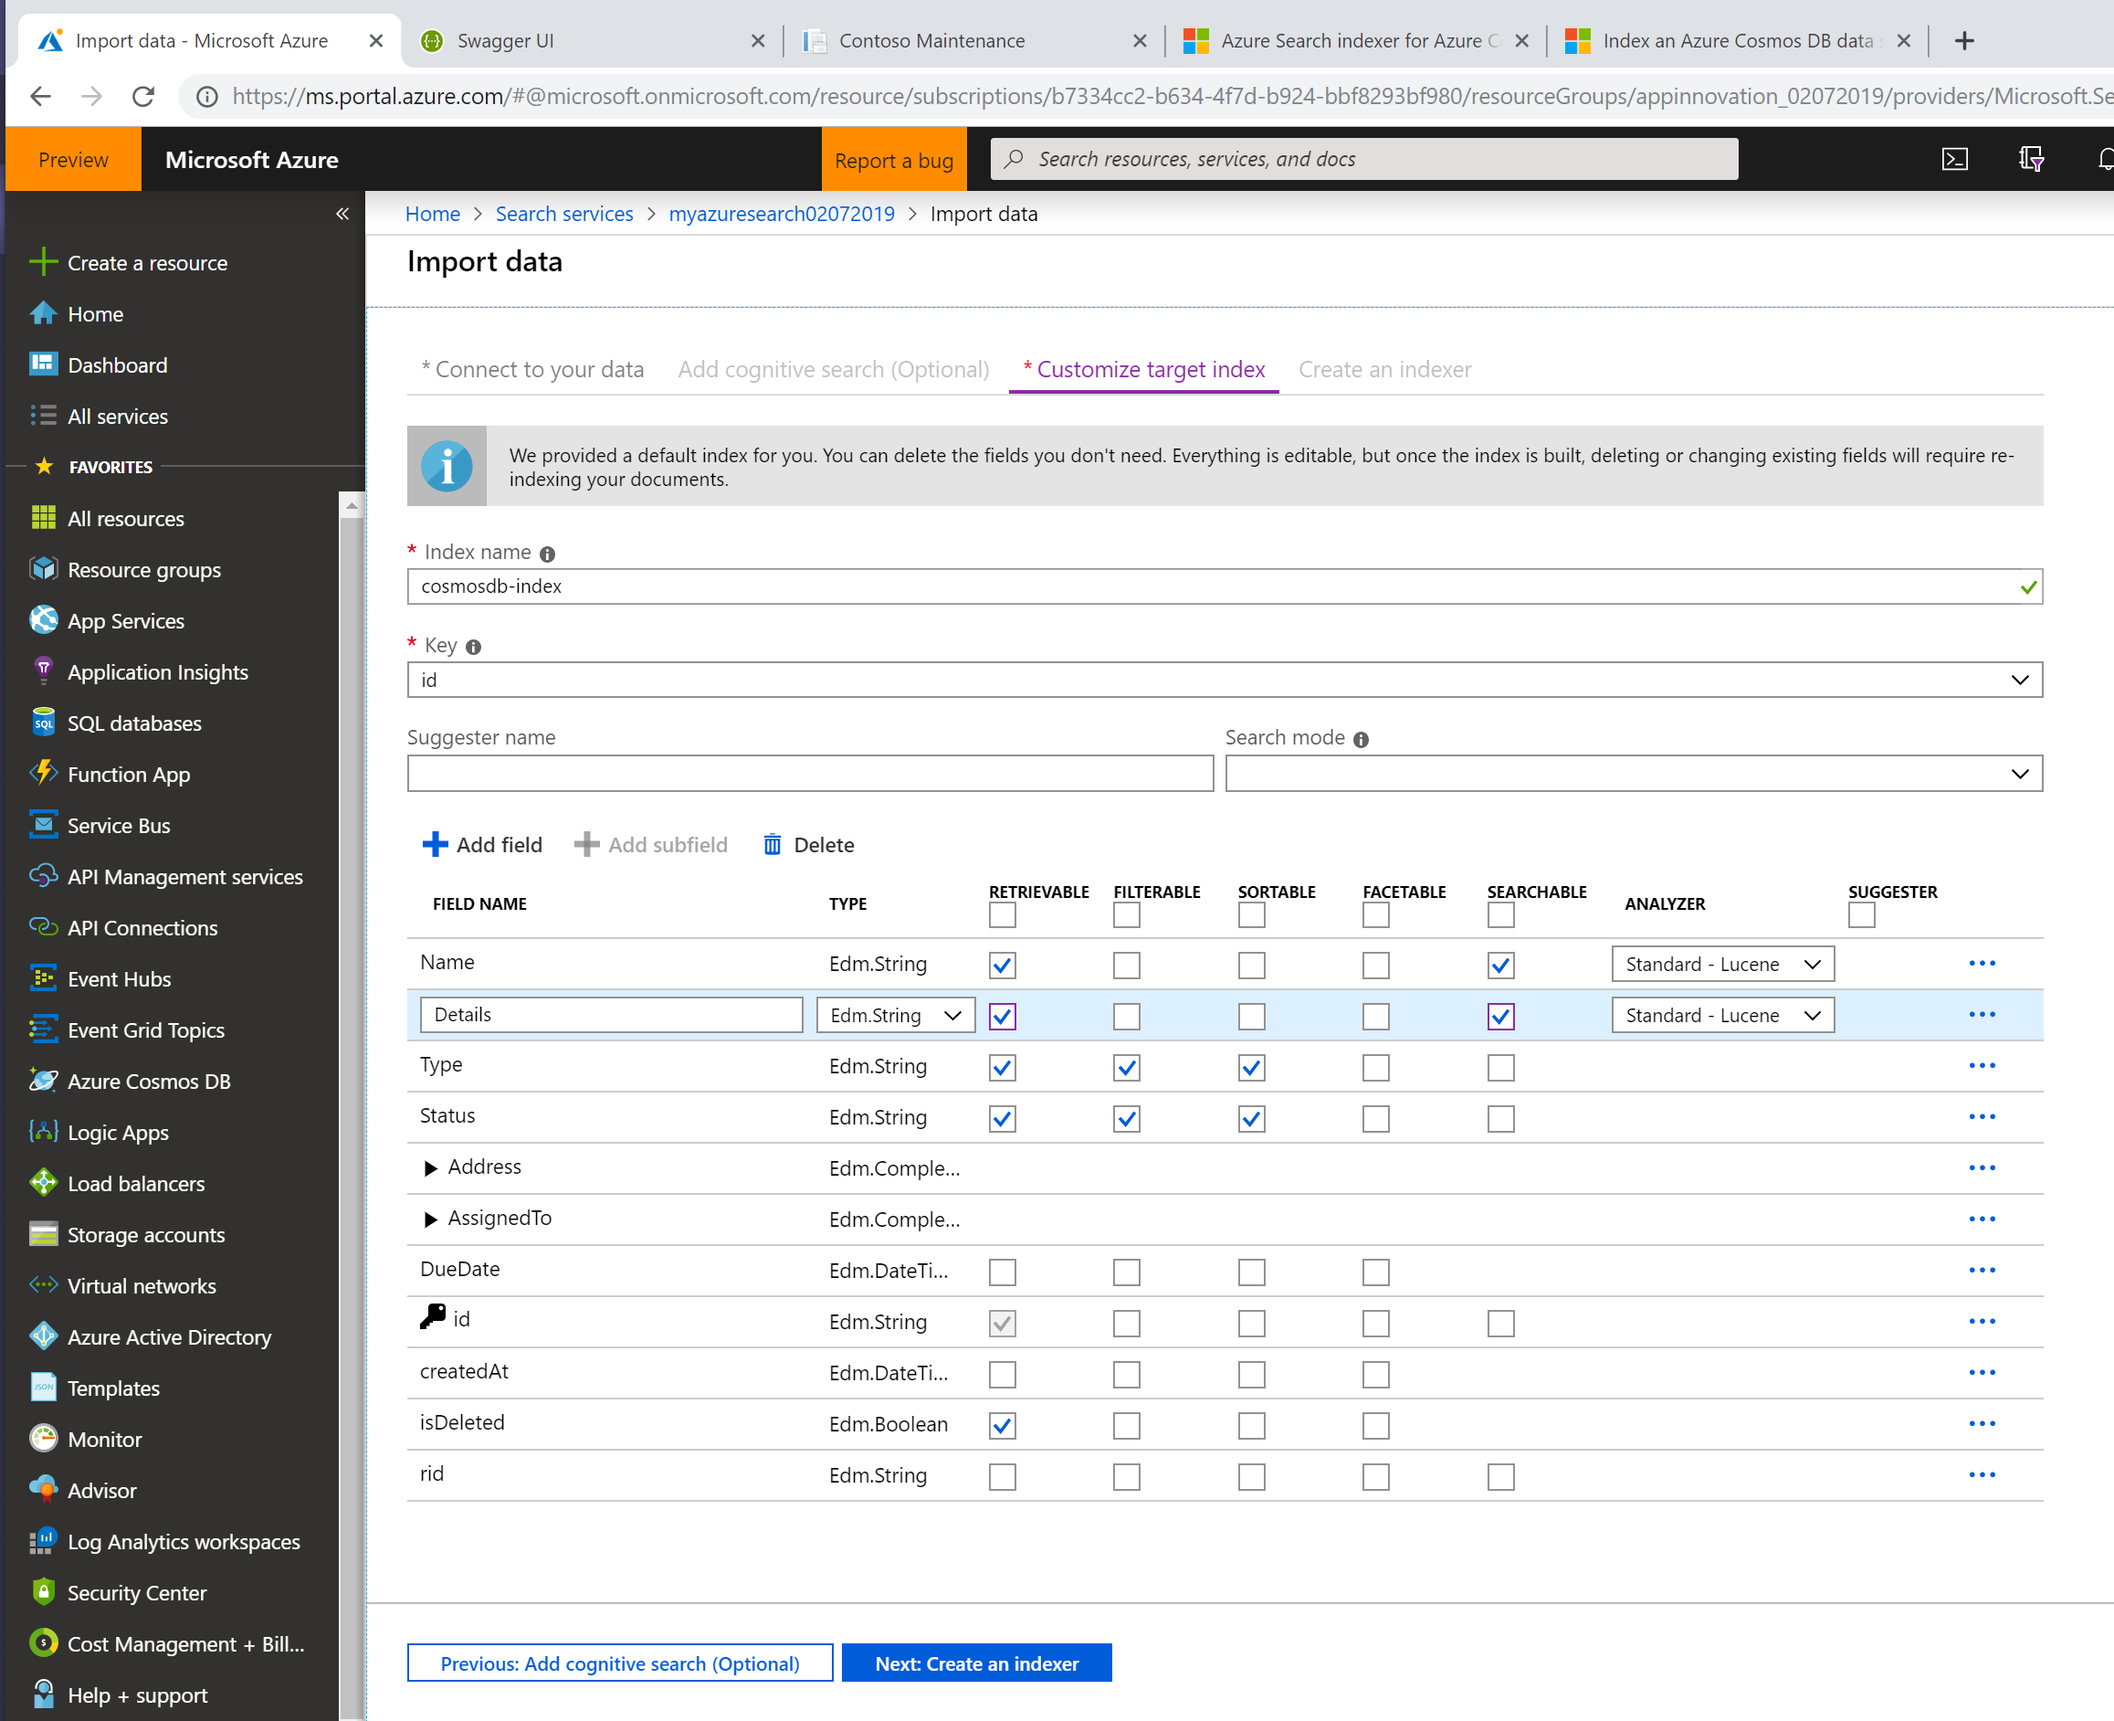
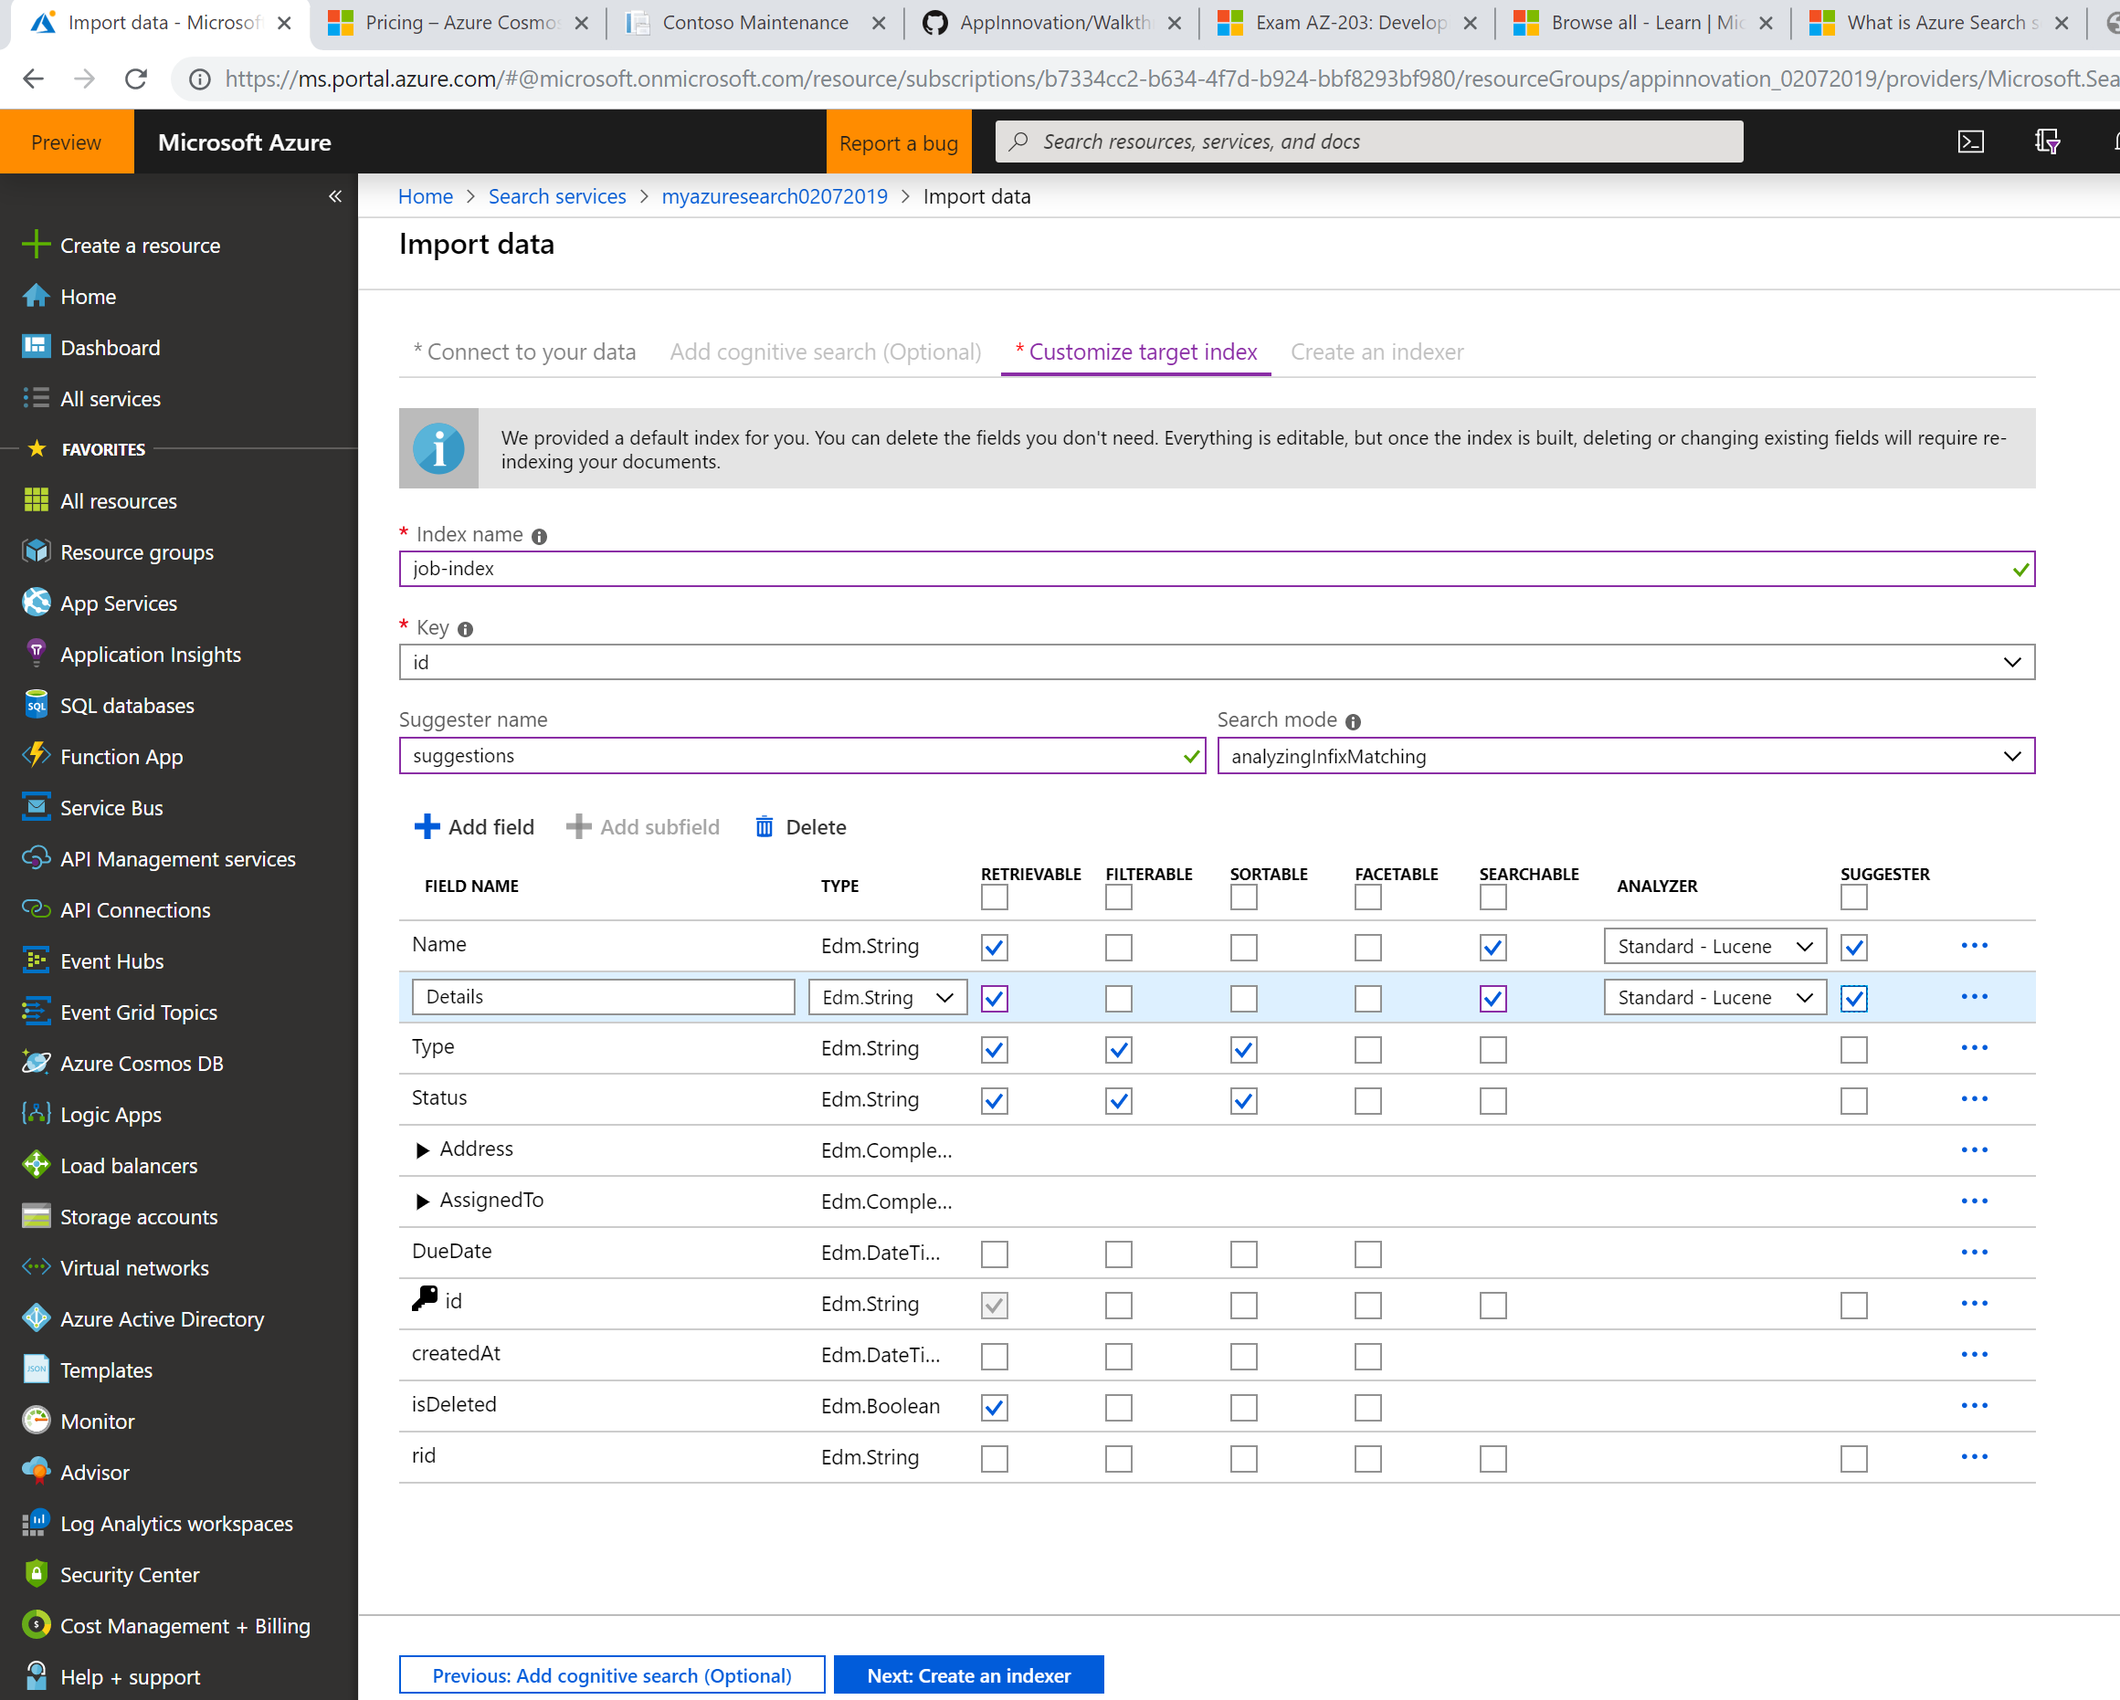
updates

Changed region(s): [[0.0, 0.0, 1.0, 1.0], [0.8708, 0.7476, 0.9019, 0.7787], [0.6842, 0.7476, 0.7153, 0.7787]]

diff --git a/Walkthrough Guide/06 Azure Search/README.md b/Walkthrough Guide/06 Azure Search/README.md
@@ -39,8 +39,6 @@ In the data source page, the source must be Cosmos DB, with the following specif
 
 - Cosmos DB account should be the primary or secondary connection string from Cosmos DB, with an  AccountEndpoint and an AccountKey. The account determines whether data is cast as SQL API or Mongo DB API
 
-If the account does not appear in the list enter the following: AccountEndpoint=accountstring;AccountKey=accountkey
-
 - Database is an existing database from the account.
 
 - Collection is a container of documents. Documents must exist in order for import to succeed.
@@ -50,7 +48,11 @@ If the account does not appear in the list enter the following: AccountEndpoint=
 We already have our database deployed, so we can select "Cosmos DB" and then click "Select an account". 
 
 
-Once you've selected your Cosmos DB account, you should be able to use the drop-downs to select which database and collections you wish to import from. We'll be picking "Jobs". Skip the Add Cognitive Search (optional) and go to Customise Target Index Section.
+Once you've selected your Cosmos DB account, you should be able to use the drop-downs to select which database and collections you wish to import from. We'll be picking "Jobs". 
+If the account does not appear in the list enter the following: ***AccountEndpoint=accountstring;AccountKey=accountkey***
+Replace accountstring and accountkey with your Cosmos DB Connection String and Key.
+
+Skip the Add Cognitive Search (optional) and go to Customise Target Index Section.
 
 ![Azure Search Create Index](Assets/CreatingJobsIndex.png)
 
@@ -58,28 +60,31 @@ Once you've selected your Cosmos DB account, you should be able to use the drop-
 **Important Note**
 The Index name must be set to "job-index", because it is referred to by name in the mobile application.
 
-We need to configure what data we wish to send back down to the device with a search query as well as which properties we'll use to search. The Index is difficult to modify (apart from adding new fields) after we've created it, so its always worth double checking the values.
+We need to configure what data we wish to send back down to the device with a search query as well as which properties we'll use to search. ***The Index is difficult to modify (apart from adding new fields) after we've created it, so its always worth double checking the values.***
 
 More info here:
 https://docs.microsoft.com/en-gb/rest/api/searchservice/create-index#bkmk_indexAttrib
 
 **Important**
-You need to create a _suggester_ called 'suggestions'. This is referred to by the _search_ API which we're writing. To do this, tick the 'suggester' box and enter 'suggestions' as its name. Then you also need to mark at least one field as being part of the suggester. We suggest(!) that the _Name_ and _Details_ fields are marked as such.
+You need to create a _suggester_ called 'suggestions'. This is referred to by the _search_ API which we're writing. To do this, in the top section in the field 'Suggester name' box and enter 'suggestions' as its name. Then you also need to mark at least one field as being part of the suggester. We suggest(!) that the _Name_ and _Details_ fields are marked as such. (See image)
 
-Note that the screenshot above is slightly out of date, and the _Suggester_ is now presented as a checkbox on the main screen, rather than another tab. Also note that at the moment the Suggester details aren't visible in the index once you've created (this is a shortcoming of the current Azure portal).
+Also note that at the moment the Suggester details aren't visible in the index once you've created (this is a shortcoming of the current Azure portal).
 
-Once you've completed this setup, click "Create". 
+Once you've completed this setup, click "Create an indexer". 
 
 ![Azure Search Create Updates](Assets/IndexerSchedule.png)
 You can now set the frequenancy at which Azure Search will look for new data. I recommend for this demo setting it to be 5 minutes. We can do this by selecting "custom". 
 
 ![Azure Search Customer Timer](Assets/CustomTimer.png)
-We also want to track deletions, so go ahead and check the tickbox and select the 'isDelete' item from the drop-down menu and set the marker value to "true". 
+We also want to track deletions, so go ahead and check the tickbox and select the 'isDeleted' item from the drop-down menu and set the marker value to "true". 
 
-You're now ready to click "OK" which will create the indexer and importer for you. 
+You're now ready to click "Submit" which will create the indexer and importer for you. 
 
 ![Azure Search Indexers List](Assets/Indexers.png)
 Click on the "indexers" item within the overview blade. 
+
+![Azure Search Indexers List](Assets/SelectIndexersTab.png)
+
 
 ![Azure Search Run Indexer](Assets/RunIndex.png)
 We can now run the indexer for the first time. Once its completed, navigate back to the Azure Search Overview and click on "Search Explorer". We can now confirm if the search service is working as expected. 
